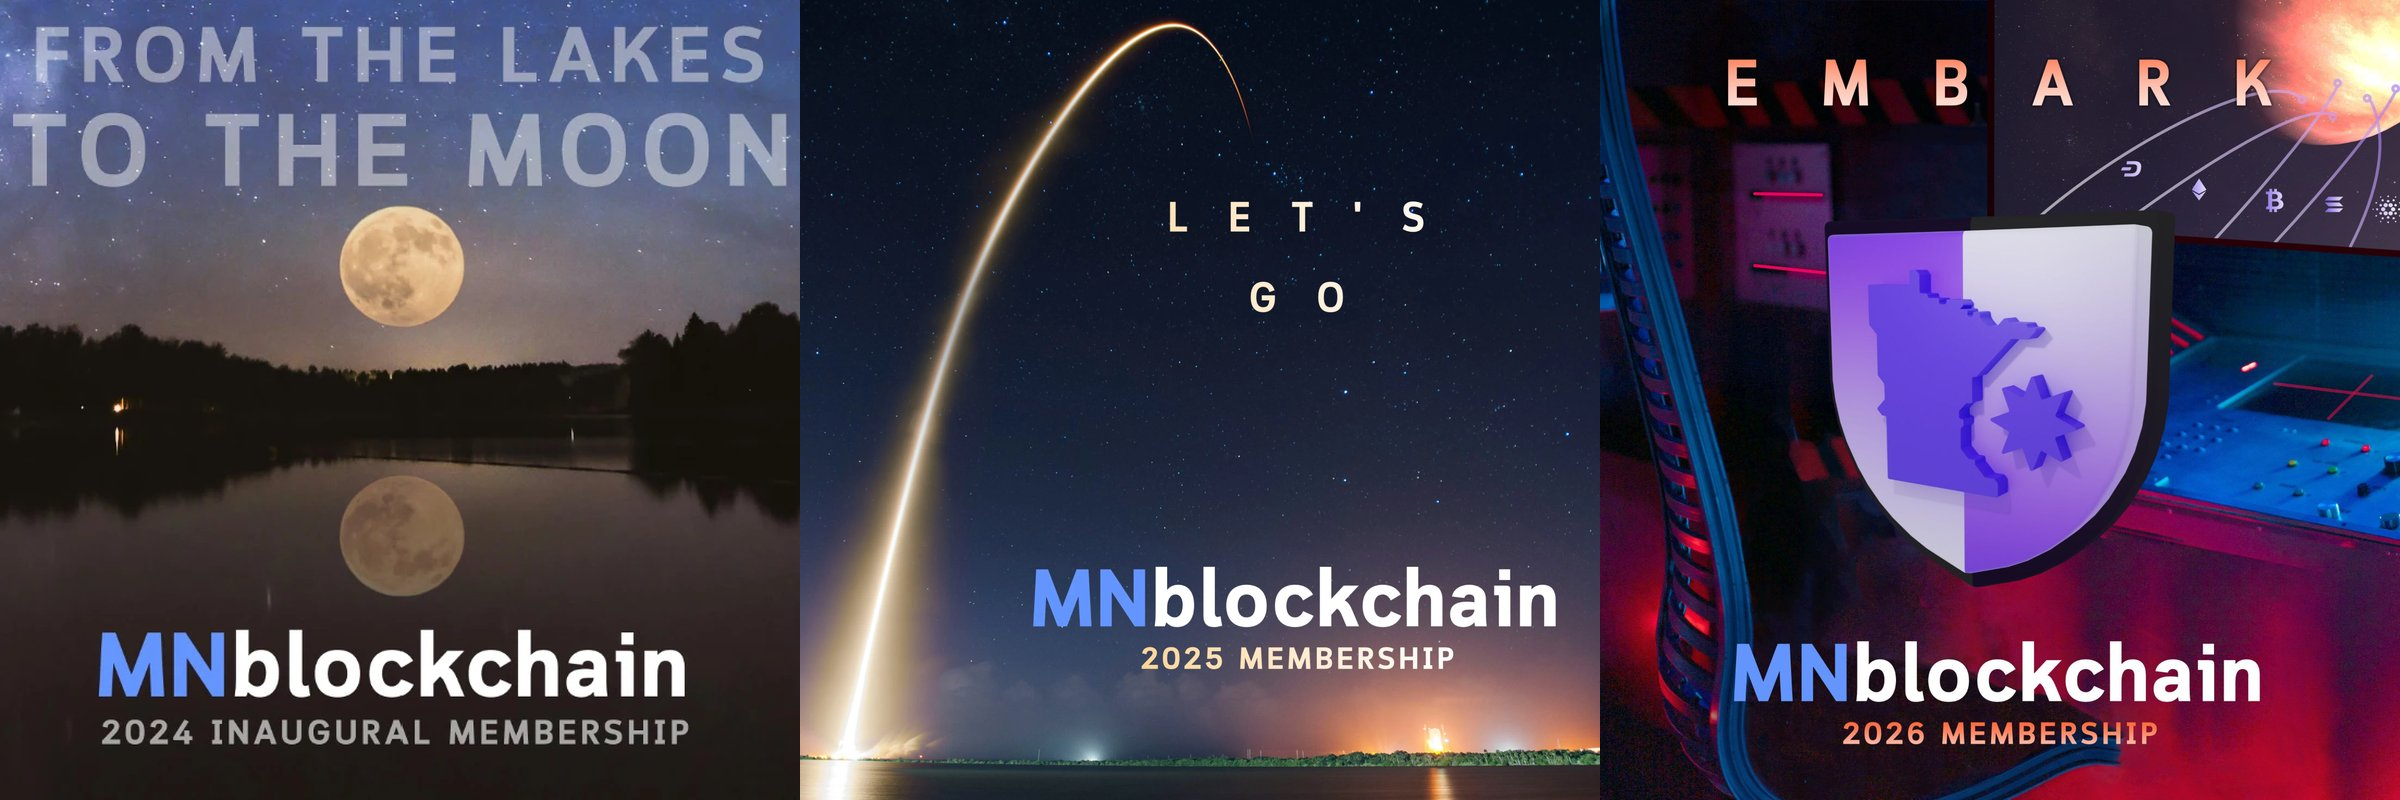
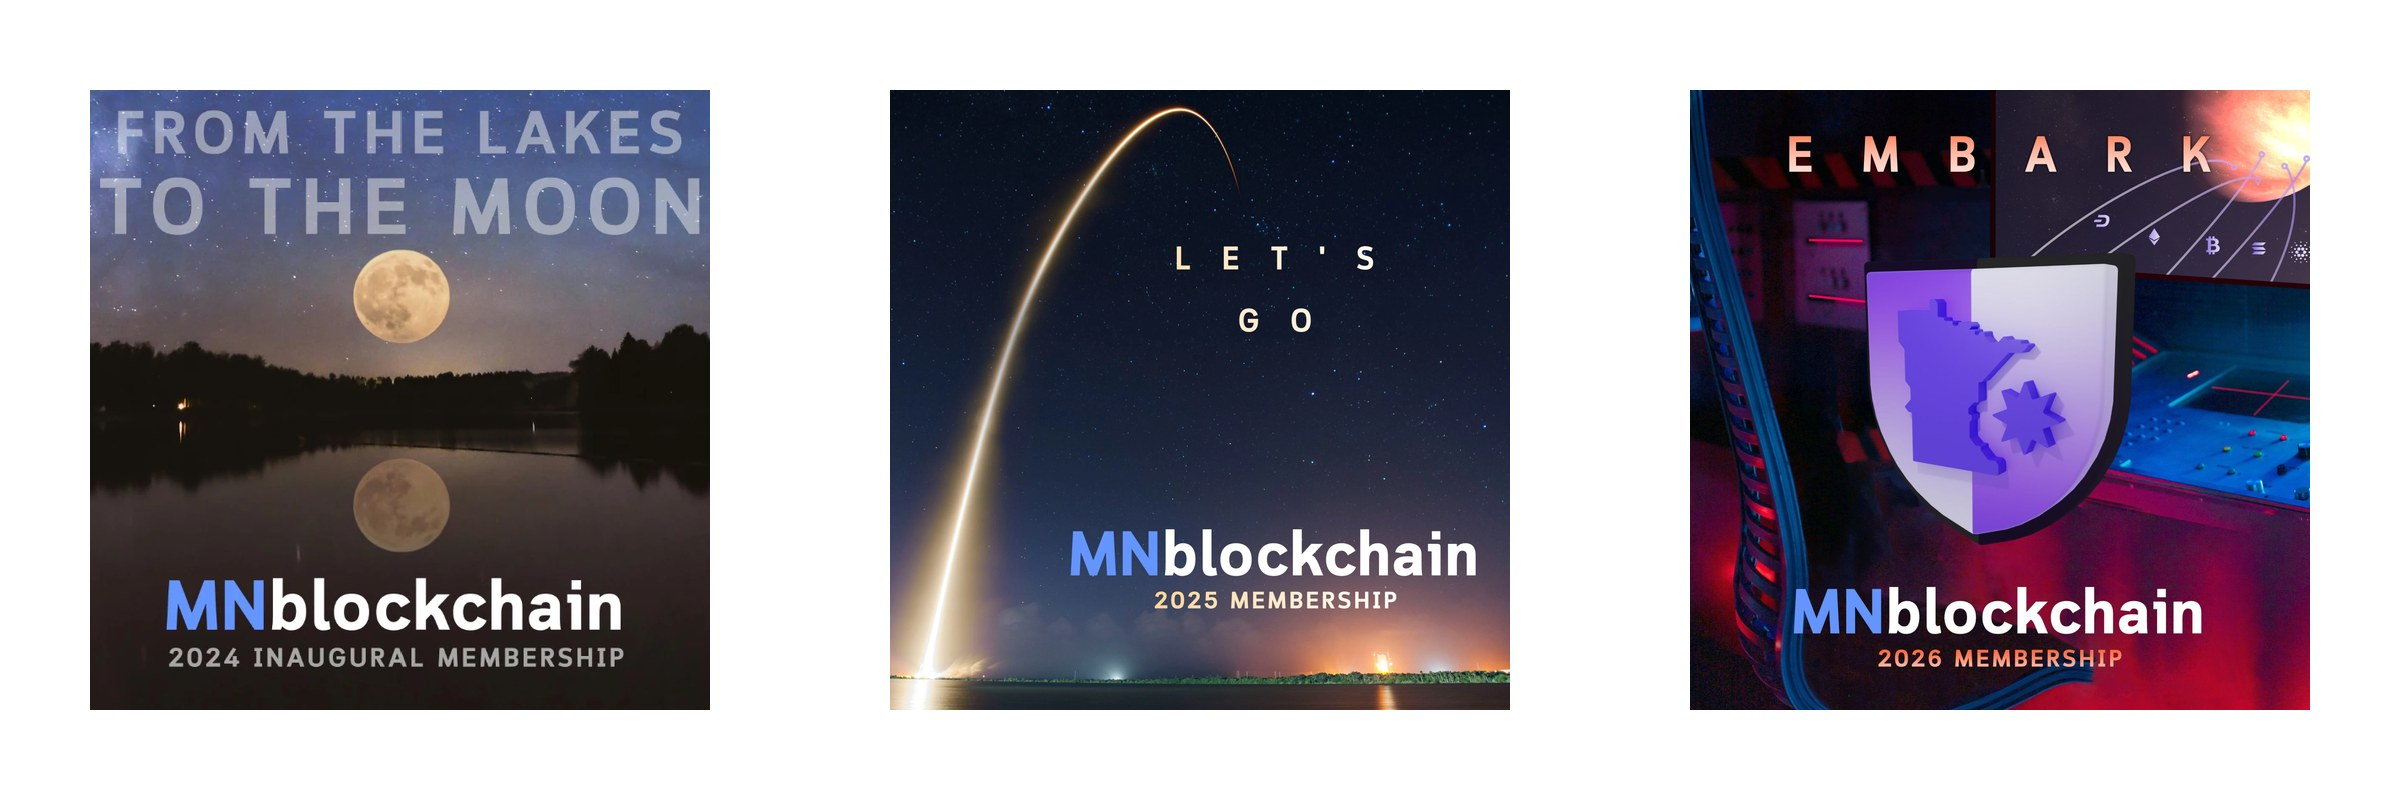
NFT page header: match site's standard scrim, show full artwork
- Scrim changed from bg-brand-blue/80 to bg-navy-black/70, matching
  every other page header on the site
- Rebuilt the collage with each NFT shrunk down and white-bordered
  instead of edge-to-edge, so the full artwork is visible
- Switched the background image from object-cover to object-contain
  (navy fill behind) so all 3 NFTs stay fully visible at every screen
  width - object-cover was cropping the side images out almost
  entirely on mobile, where the header is much closer to square than
  the collage's 3:1 aspect ratio

diff --git a/app/membership/nft/page.tsx b/app/membership/nft/page.tsx
@@ -18,17 +18,20 @@ const currentYearNft = { year: "2026", name: "EMBARK", image: "/membership/nft/2
 export default function MembershipNftPage() {
   return (
     <>
-      <section className="relative overflow-hidden py-10 text-center">
+      <section className="relative overflow-hidden bg-navy-black py-10 text-center">
+        {/* object-contain (not cover) so the full collage - all 3 NFTs - stays
+            visible at every screen width instead of the side ones getting
+            cropped off on narrower/more-square containers. */}
         <Image
           src="/membership/nft/header-collage.jpg"
           alt="MNblockchain Membership NFTs from 2024, 2025, and 2026"
           fill
           priority
           sizes="100vw"
-          className="object-cover"
+          className="object-contain"
         />
         {/* Solid scrim so headline text stays legible over the collage. */}
-        <div className="absolute inset-0 bg-brand-blue/80" />
+        <div className="absolute inset-0 bg-navy-black/70" />
         <div className="relative mx-auto max-w-2xl px-6">
           <Badge>For current MNblockchain members</Badge>
           <h1 className="mt-6 whitespace-nowrap font-heading text-2xl font-extrabold text-white sm:text-4xl md:text-5xl">
